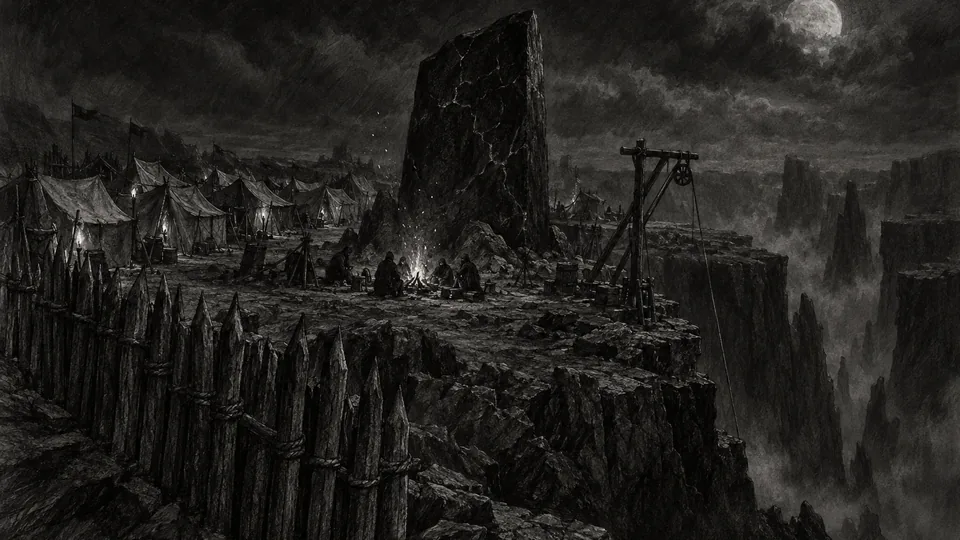
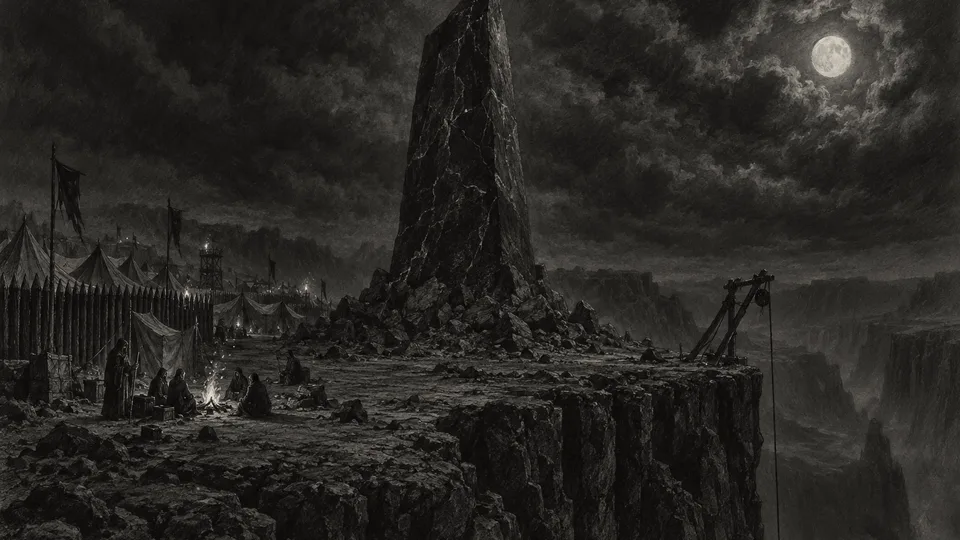
Neue Lagerbilder: Stein steht fest am Boden, Adern-Glühen neu abgeleitet
Claude-Session: https://claude.ai/code/session_011EEWvRSeQeUrKHaWh94RcN

diff --git a/index.html b/index.html
@@ -1402,7 +1402,7 @@ ${glow(180,K.y+6,boss?80:big?60:44,boss?46:big?34:26,big?"#c0352a":c,big?.3:.12)
 ${boss?`<g class="spin" style="transform-origin:180px ${K.y}px"><circle cx="180" cy="${K.y}" r="34" fill="none" stroke="#c0352a" stroke-width=".7" stroke-dasharray="2 6" opacity=".7"/><circle cx="180" cy="${K.y}" r="44" fill="none" stroke="#c0352a" stroke-width=".4" opacity=".35"/></g>`:''}
 <g class="foe-eyes blink ${k==='wing'?'hover':'breathe-e'}">${eye(180-K.gap)}${eye(180+K.gap)}${extra.map(eye).join('')}</g>
 ${particles(PART[ai],10,c,31+ai)}`)}
-const IMG={"nw15":{"p":"dust","fog":1},"nw16":{"p":"dust","fog":1},"nw17":{"p":"snow","fog":1},"nw18":{"p":"dust","fog":1},"nw19":{"g":[[51,22,9,"p","slow"]],"p":"snow","fog":1},"w15":{"p":"dust","fog":1},"w16":{"p":"dust","fog":1},"w17":{"e":[[52.1,34.7,1],[54.7,34.7,1]],"c":"b","p":"snow"},"w18":{"g":[[56.6,27.8,5,"p","slow"]],"p":"dust"},"w19":{"e":[[49.0,18.5,1],[50.9,18.5,1]],"c":"b","es":1,"p":"dust"},"x20":{"g":[[49.5,40,6,"p","slow"]],"p":"dust","fog":1},"g26":{"p":"dust"},"g27":{"p":"dust"},"g28":{"p":"dust"},"g29":{"p":"dust"},"g30":{"e":[[47.8,14.4,1],[49.6,14.4,1]],"c":"b"},"g31":{"p":"dust"},"rb4":{"p":"snow","fog":1},"rw10":{"p":"snow","fog":1},"rt3":{"p":"embers"},"rw7":{"p":"embers"},"rt4":{"p":"snow"},"rw9":{"p":"snow"},"nw11":{"p":"dust","fog":1},"nw12":{"g":[[52.5,27.5,1.6,"v","pulse"]],"p":"dust","fog":1},"nb5":{"g":[[50.5,46,4,"y","slow"]],"p":"dust","fog":1},"nt5":{"p":"dust","fog":1},"x19":{"p":"dust","fog":1},"w14":{"p":"dust","fog":1},"x17":{"g":[[22.8,75,3,"y","fl"]],"p":"dust"},"zb1":{"p":"dust"},"zt2":{"p":"dust","fog":1},"zb2":{"p":"dust","fog":1},"zt4":{"p":"snow"},"zb4":{"p":"snow","fog":1},"zt5":{"p":"dust","fog":1},"w13":{"p":"dust"},"zt3":{"p":"embers"},"x18":{"p":"dust","fog":1},"zw9":{"p":"snow"},"zw11":{"p":"dust","fog":1},"zw12":{"g":[[57.6,68,1.6,"v","pulse"]],"p":"dust"},"zw1":{"p":"dust"},"zw2":{"p":"dust","fog":1},"zw3":{"g":[[77.3,84.5,2.5,"y","fl"]],"p":"dust"},"zw4":{"p":"dust","fog":1},"zw5":{"g":[[57,47,5,"o","slow"]],"p":"dust"},"zw7":{"p":"embers"},"zw8":{"p":"dust","fog":1},"zw10":{"p":"snow","fog":1},"x16":{"e":[[48.2,14.6,.45],[50.5,14.6,.45]],"eo":1,"c":"y","g":[[67.5,30,4,"v","pulse"],[67.5,50,3,"v","slow"]],"p":"dust"},"w6":{"p":"dust"},"w7":{"e":[[49.8,37.8,.6],[52.5,37.8,.6],[48.3,35,.4],[54,35,.4]],"eo":1,"c":"o","g":[[48.2,10.4,10,"o","pulse"]],"p":"embers"},"w8":{"e":[[49.3,4.7,.5],[51,4.6,.5]],"eo":1,"c":"b","p":"dust","fog":1},"w9":{"e":[[56.8,10.5,.4],[58.5,11.4,.4]],"eo":1,"c":"b","p":"snow"},"w10":{"p":"snow","fog":1},"w11":{"p":"dust"},"w12":{"vn":.9,"p":"dust"},"x12":{"p":"dust"},"x13":{"p":"dust"},"x14":{"g":[[36,38,2.5,"y","fl"]],"p":"dust"},"x15":{"g":[[25.7,32.4,2,"o","fl"],[88.7,32.4,2,"o","fl"],[47.9,42.8,8,"b","slow"]],"p":"dust","fog":1},"w3":{"e":[[49.3,1.8,.5],[51.4,1.8,.5]],"eo":1,"c":"b","g":[[38.1,50.9,2.2,"y","fl"]],"p":"dust"},"w1":{"p":"dust"},"w2":{"e":[[42.5,15.7,.55],[45.5,15.7,.55]],"eo":1,"c":"y","g":[[14,49,3,"o","fl"],[93,49,3,"o","fl"],[40.6,59,8,"y","slow"]],"p":"dust"},"w4":{"e":[[49.8,3.6,.45],[51.8,3.6,.45],[44.5,28.5,.4],[46,28.5,.4],[50.8,55.5,.4],[52,55.5,.4],[33,18.7,.4],[35,18.7,.4]],"eo":1,"c":"b","g":[[4,65,1.5,"y","fl"],[95.6,65,1.5,"y","fl"]],"p":"dust","fog":1},"w5":{"e":[[51.5,1.4,.5],[54,1.4,.5]],"eo":1,"c":"y","p":"dust"},"e14":{"g":[[45.9,36.5,3,"y","fl"]],"p":"dust"},"e15":{"vn":.85,"p":"dust"},"e16":{"g":[[81.5,54,6,"o","fl"],[44,48,3.5,"o","fl2"]],"p":"embers"},"e17":{"g":[[48,36,5,"y","slow"]],"p":"dust"},"e18":{"p":"dust"},"l1":{"g":[[41.7,51,5,"o","fl"]],"m":[85.3,5.2,3],"st":[49.5,25],"fog":1},"l2":{"g":[[56,58,5,"o","fl"],[28,53,3,"o","fl"]],"m":[96.4,1.8,3],"st":[50,24.5],"fog":1},"l3":{"g":[[36.5,54,4.5,"o","fl"],[11.4,53,3,"o","fl"],[66.3,16,1.6,"y","fl"]],"m":[88.2,7,3],"st":[45,23],"fog":1},"l5":{"g":[[34.4,73,4.5,"o","fl"],[57.3,68.5,3,"v","fl2"],[60.4,39.5,2,"v","pulse"],[72.6,26,1.6,"y","fl"],[38.3,56.5,1.2,"y","fl"],[49.2,56.5,1.2,"y","fl"],[10.4,71,2,"y","fl"]],"m":[89,2.2,3],"st":[48,20],"fog":1},"l4":{"g":[[34.5,75,4.5,"o","fl"],[39.6,47,1.6,"y","fl"],[54.7,47,1.6,"y","fl"],[77.8,30,1.6,"y","fl"]],"m":[93,4.6,3],"st":[50.3,15],"fog":1},"h2":{"g":[[27.5,16,3.2,"y","fl"]],"p":"dust"},"h3":{"g":[[20,88,10,"o","fl2"],[8,45,8,"o","slow"]],"p":"embers"},"h4":{"g":[[88.9,64.5,3,"y","fl"]],"p":"snow"},"h5":{"g":[[56.5,8,4,"y","fl"]]},"r2":{"g":[[56.6,64,5,"o","fl"]],"p":"dust"},"r3":{"g":[[58.6,74,7,"o","fl2"]],"p":"embers"},"r4":{"g":[[58.6,66,5,"o","fl"]],"p":"snow"},"r5":{"g":[[50.8,51,3.5,"o","fl"]]},"x11":{"p":"dust"},"v6":{"e":[],"c":"o","g":[[11,26,4,"o","fl2"],[28,42,4,"o","fl2"],[90,30,4,"o","fl2"]]},"v1":{"e":[],"c":"y"},"v2":{"e":[],"c":"o","g":[[18,58,6,"o","fl2"],[82,58,6,"o","fl2"]]},"v3":{"e":[],"c":"o","p":"embers"},"v4":{"e":[],"c":"b","p":"snow"},"v5":{"e":[],"c":"v"},"v7":{"e":[],"c":"b"},"v8":{"e":[],"c":"o","p":"embers"},"v9":{"e":[],"c":"b","p":"snow"},"v10":{"e":[],"c":"y","g":[[51,79,3,"y","fl2"]]},"q1":{"e":[],"c":"y","g":[[46,80,6,"y","slow"]],"p":"dust"},"q2":{"e":[],"c":"o","p":"embers"},"q3":{"e":[],"c":"y","g":[[31,93,5,"o","fl2"]]},"x6":{"e":[],"c":"y","g":[[42,73,10,"o","fl2"]]},"x7":{"e":[],"c":"y","p":"dust"},"x8":{"e":[],"c":"v","g":[[58,15,4,"v","pulse"]]},"x9":{"e":[],"c":"y","p":"dust"},"x10":{"e":[],"c":"y"},"x5":{"e":[],"c":"y","g":[[58,12,10,"y","slow"]],"p":"dust"},"e10":{"e":[],"c":"y","g":[[73,50,6,"o","fl2"]]},"e12":{"e":[],"c":"y"},"e9":{"e":[],"c":"y"},"e11":{"e":[],"c":"o","g":[[70,80,9,"o","fl2"]]},"e13":{"e":[],"c":"y"},"g15":{"e":[[49.7,20.1,1.3],[58.0,22.5,1.3]],"c":"y"},"g16":{"e":[[50.0,24.2,1.0],[56.7,24.2,1.0]],"c":"y","g":[[50,4,6,"o","fl2"]]},"g17":{"e":[[45.7,25.4,1.3],[51.9,28.1,1.3]],"c":"o","p":"embers"},"g18":{"e":[],"c":"b","p":"snow"},"g19":{"e":[[38.9,31.8,1.0],[46.3,31.5,1.0]],"c":"b"},"g20":{"e":[[50.4,6.1,0.9],[56.8,6.1,0.9]],"c":"o","p":"embers"},"g21":{"e":[[55.1,25.5,1.0],[60.5,25.3,1.0]],"c":"b","p":"snow"},"g22":{"e":[],"c":"b","p":"snow"},"g23":{"e":[[47.7,2.4,0.6],[49.0,2.4,0.6]],"c":"b"},"g24":{"e":[],"c":"b"},"g25":{"e":[[53.6,13.3,1.1],[58.6,13.1,1.1]],"c":"b"},"e1":{"e":[],"c":"r"},"e2":{"e":[],"c":"b","g":[[50,68,18,"b","slow"]]},"e3":{"e":[],"c":"y"},"e4":{"e":[],"c":"y"},"e5":{"e":[],"c":"o","g":[[22,77,5,"o","fl2"]]},"e6":{"e":[],"c":"b","g":[[44,45,14,"b","slow"]]},"e7":{"e":[],"c":"y"},"e8":{"e":[],"c":"y"},"g1":{"e":[[49.8,12.5,1.4],[43.7,15.3,1.4]],"c":"y"},"g2":{"e":[[47.3,0.5,0.8],[49.3,0.8,0.8]],"c":"b"},"g3":{"e":[[51.3,18.8,0.9],[45.5,20.4,1.1]],"c":"y"},"g4":{"e":[[47.6,1.9,0.8],[49.5,1.8,0.8]],"c":"p"},"g5":{"e":[[58.4,40.5,0.8],[67.7,40.8,0.8]],"c":"y"},"g6":{"e":[[51.0,6.9,1.1],[49.2,7.1,1.1]],"c":"o","g":[[50,45,25,"o","slow"]]},"g7":{"e":[[47.8,4.9,0.6],[49.9,4.9,0.6]],"c":"b"},"g8":{"e":[[45.5,29.7,0.8],[53.9,30.0,0.8]],"c":"r"},"g9":{"e":[[44.1,9.8,1.9],[60.5,9.9,1.9],[50.5,21.4,4.8],[35.9,23.1,1.9],[65.0,30.1,4.8],[39.2,33.0,1.1],[53.0,36.4,1.9],[67.0,40.4,1.4],[60.3,46.1,2.0],[77.7,59.1,4.8],[55.7,72.8,1.4]],"c":"g"},"g10":{"e":[[45.3,47.2,1.4],[52.7,48.1,1.4]],"c":"y"},"g11":{"e":[[46.3,31.6,1.6],[56.4,33.8,1.6]],"c":"y"},"g12":{"e":[[50.0,0.1,1.2],[52.6,1.0,1.2]],"c":"o"},"b1":{"e":[[50.5,10.4,1.2],[46.7,12.2,1.4]],"c":"y"},"b2":{"e":[[52.2,7.0,1.2],[49.4,7.4,1.2]],"c":"b"},"b3":{"e":[[51.5,2.8,1.4],[48.4,3.2,1.2]],"c":"o","g":[[52,40,25,"o","fl2"]],"p":"embers"},"b4":{"e":[[51.9,4.4,.6],[49.9,4.4,.6]],"eo":1,"c":"b","p":"snow"},"b5":{"e":[[52.0,8.5,1.2],[54.2,9.3,1.2],[47.0,9.6,1.2],[48.4,11.2,1.2],[50.0,11.6,1.4],[46.3,13.2,1.2],[54.0,15.1,1.2],[51.1,15.6,1.4],[47.9,17.7,1.2],[51.8,18.0,1.4],[53.9,18.6,1.2],[49.8,21.2,1.2],[46.4,21.4,1.2],[52.3,21.6,1.4],[48.3,22.6,1.2],[53.9,22.9,1.2],[49.0,26.6,1.2],[51.9,28.2,1.2],[53.0,32.1,1.2],[49.4,32.3,1.2],[48.3,35.4,1.2],[51.1,37.1,1.2],[54.8,37.5,1.2],[43.9,38.3,1.2],[48.7,40.7,1.2],[51.1,43.6,1.2],[55.2,44.0,1.2],[45.7,46.5,1.2],[49.6,47.1,1.2],[55.3,48.7,1.2],[51.2,49.4,1.2],[43.0,49.5,1.2],[51.1,53.2,1.4],[56.7,54.2,1.4],[43.9,57.0,1.2],[52.7,59.2,1.2],[48.0,59.5,1.2],[45.9,61.7,1.2],[54.4,65.4,1.2],[44.9,66.0,1.2],[59.1,69.8,1.2],[56.1,71.7,2.2],[39.9,71.8,1.2],[45.1,72.6,1.2],[48.1,72.8,1.2],[50.2,75.0,2.5],[41.6,77.6,1.2],[44.2,78.1,1.2],[46.9,80.5,1.2],[42.7,82.1,1.2],[38.1,82.8,1.1],[52.4,82.9,1.2],[43.9,88.3,1.4],[33.7,89.8,1.2],[55.2,90.7,1.2],[37.4,91.5,1.2],[61.4,95.7,2.5],[57.6,97.2,2.5]],"c":"v"},"t1":{"e":[[53.3,1.0,1.2],[50.4,1.2,1.2]],"c":"y"},"t2":{"e":[[47.0,1.9,1.2],[49.3,2.1,1.2]],"c":"b"},"t3":{"e":[[50.3,12.6,2.0],[43.5,13.6,2.2]],"c":"o","g":[[48,45,22,"o","fl2"]],"p":"embers"},"t4":{"e":[[50,13.9,.7],[48.1,13.9,.7]],"eo":1,"c":"b","p":"snow"},"t5":{"e":[[50.5,4.0,0.5],[49.0,4.0,0.6]],"c":"v"},"k1":{"e":[[53.7,38.0,1.2],[63.8,38.4,1.2]],"c":"y"},"k2":{"e":[[54.8,7.8,1.4],[60.6,10.9,1.2],[48.9,11.4,1.4],[41.7,12.7,1.2],[44.4,15.9,1.2],[41.3,21.9,1.2],[46.3,22.6,1.2],[64.9,24.9,1.2],[26.5,27.2,1.2],[68.5,30.2,1.2],[76.0,32.6,1.2],[28.5,36.8,1.2],[45.5,37.7,1.4],[20.7,39.3,1.2],[68.3,42.6,1.2],[75.4,43.8,1.2],[81.6,49.0,1.2],[15.7,52.6,1.2],[48.5,55.7,1.2],[27.2,56.3,2.0],[84.3,58.4,1.2],[69.3,59.7,1.4],[44.9,67.7,1.2],[13.2,68.6,1.4],[92.5,69.4,1.2],[21.0,72.8,1.4],[75.8,74.5,1.2],[62.6,80.2,1.2],[19.7,82.8,1.4],[42.0,82.7,1.2]],"c":"g"},"k3":{"e":[[49.7,1.5,1.4],[52.2,1.5,1.4]],"c":"b"},"k4":{"e":[],"c":"p"},"k5":{"e":[[50.6,2.8,1.4],[47.9,3.5,1.4]],"c":"o","g":[[30,55,20,"o","fl2"]],"p":"embers"},"k6":{"e":[[48.2,2.8,1.4],[51.2,2.7,1.2]],"c":"o","g":[[49.5,19,8,"o","fl2"],[50,88,40,"o","fl2"]],"p":"embers"},"k7":{"e":[[43.9,36.6,1.4],[51.3,36.7,1.4]],"c":"b","p":"snow"},"k8":{"e":[[49.0,6.7,1.4],[50.7,6.6,1.4]],"c":"b","p":"snow"},"k9":{"e":[[48.9,2.1,1.2],[50.8,3.3,1.2]],"c":"p","ec":"b","es":1},"k10":{"e":[[51.0,0.2,1.2]],"c":"v"},"o1":{"g":[[28.6,56,7,"o","fl"],[43,30,10,"v","pulse"],[69,8,4.5,"p","slow"]],"m":[68.9,7.8,3.3],"fog":1},"o2":{"g":[[84.6,11,6,"o","fl"],[60,80,15,"p","slow"]],"p":"dust"},"o3":{"g":[[25,80,6,"o","fl"],[81,90,6,"o","fl"],[35,64,4,"o","fl"],[66,70,4,"o","fl"],[50,46,4,"o","fl"]],"p":"dust"},"o4":{"g":[[62,80,18,"o","fl2"],[60,50,12,"o","fl2"],[15,46,4,"o","fl"],[88,30,4,"o","fl"]],"p":"embers"},"o5":{"g":[[45,45,30,"b","slow"]],"p":"snow","fog":1},"o6":{"g":[[70,22,4,"r","eye"]],"p":"dust"},"o7":{"g":[[18,12,6,"o","fl"],[79.5,12,6,"o","fl"],[49.8,56,4,"r","eye"]],"p":"dust"},"o8":{"g":[[51.4,66,9,"o","fl"]]},"o9":{"g":[[60.4,16,6,"o","fl"]],"p":"dust"},"x1":{"s":[[30.4,50.5,1.6],[29.6,55,1.1]]},"x2":{"g":[[83,47,12,"o","fl"],[40,76,10,"o","fl"]]},"x3":{"g":[[50,47,10,"v","pulse"]],"p":"dust"},"x4":{"g":[[17.6,44.5,5,"o","fl"]]},"g14":{"e":[[54.2,52,1.6],[66.3,52,1.6]],"c":"o","g":[[45,35,30,"o","fl2"]],"p":"embers"},"g13":{"e":[[59.8,37.2,1.3],[68.6,37.5,1.3]],"c":"y"}};
+const IMG={"nw15":{"p":"dust","fog":1},"nw16":{"p":"dust","fog":1},"nw17":{"p":"snow","fog":1},"nw18":{"p":"dust","fog":1},"nw19":{"g":[[51,22,9,"p","slow"]],"p":"snow","fog":1},"w15":{"p":"dust","fog":1},"w16":{"p":"dust","fog":1},"w17":{"e":[[52.1,34.7,1],[54.7,34.7,1]],"c":"b","p":"snow"},"w18":{"g":[[56.6,27.8,5,"p","slow"]],"p":"dust"},"w19":{"e":[[49.0,18.5,1],[50.9,18.5,1]],"c":"b","es":1,"p":"dust"},"x20":{"g":[[49.5,40,6,"p","slow"]],"p":"dust","fog":1},"g26":{"p":"dust"},"g27":{"p":"dust"},"g28":{"p":"dust"},"g29":{"p":"dust"},"g30":{"e":[[47.8,14.4,1],[49.6,14.4,1]],"c":"b"},"g31":{"p":"dust"},"rb4":{"p":"snow","fog":1},"rw10":{"p":"snow","fog":1},"rt3":{"p":"embers"},"rw7":{"p":"embers"},"rt4":{"p":"snow"},"rw9":{"p":"snow"},"nw11":{"p":"dust","fog":1},"nw12":{"g":[[52.5,27.5,1.6,"v","pulse"]],"p":"dust","fog":1},"nb5":{"g":[[50.5,46,4,"y","slow"]],"p":"dust","fog":1},"nt5":{"p":"dust","fog":1},"x19":{"p":"dust","fog":1},"w14":{"p":"dust","fog":1},"x17":{"g":[[22.8,75,3,"y","fl"]],"p":"dust"},"zb1":{"p":"dust"},"zt2":{"p":"dust","fog":1},"zb2":{"p":"dust","fog":1},"zt4":{"p":"snow"},"zb4":{"p":"snow","fog":1},"zt5":{"p":"dust","fog":1},"w13":{"p":"dust"},"zt3":{"p":"embers"},"x18":{"p":"dust","fog":1},"zw9":{"p":"snow"},"zw11":{"p":"dust","fog":1},"zw12":{"g":[[57.6,68,1.6,"v","pulse"]],"p":"dust"},"zw1":{"p":"dust"},"zw2":{"p":"dust","fog":1},"zw3":{"g":[[77.3,84.5,2.5,"y","fl"]],"p":"dust"},"zw4":{"p":"dust","fog":1},"zw5":{"g":[[57,47,5,"o","slow"]],"p":"dust"},"zw7":{"p":"embers"},"zw8":{"p":"dust","fog":1},"zw10":{"p":"snow","fog":1},"x16":{"e":[[48.2,14.6,.45],[50.5,14.6,.45]],"eo":1,"c":"y","g":[[67.5,30,4,"v","pulse"],[67.5,50,3,"v","slow"]],"p":"dust"},"w6":{"p":"dust"},"w7":{"e":[[49.8,37.8,.6],[52.5,37.8,.6],[48.3,35,.4],[54,35,.4]],"eo":1,"c":"o","g":[[48.2,10.4,10,"o","pulse"]],"p":"embers"},"w8":{"e":[[49.3,4.7,.5],[51,4.6,.5]],"eo":1,"c":"b","p":"dust","fog":1},"w9":{"e":[[56.8,10.5,.4],[58.5,11.4,.4]],"eo":1,"c":"b","p":"snow"},"w10":{"p":"snow","fog":1},"w11":{"p":"dust"},"w12":{"vn":.9,"p":"dust"},"x12":{"p":"dust"},"x13":{"p":"dust"},"x14":{"g":[[36,38,2.5,"y","fl"]],"p":"dust"},"x15":{"g":[[25.7,32.4,2,"o","fl"],[88.7,32.4,2,"o","fl"],[47.9,42.8,8,"b","slow"]],"p":"dust","fog":1},"w3":{"e":[[49.3,1.8,.5],[51.4,1.8,.5]],"eo":1,"c":"b","g":[[38.1,50.9,2.2,"y","fl"]],"p":"dust"},"w1":{"p":"dust"},"w2":{"e":[[42.5,15.7,.55],[45.5,15.7,.55]],"eo":1,"c":"y","g":[[14,49,3,"o","fl"],[93,49,3,"o","fl"],[40.6,59,8,"y","slow"]],"p":"dust"},"w4":{"e":[[49.8,3.6,.45],[51.8,3.6,.45],[44.5,28.5,.4],[46,28.5,.4],[50.8,55.5,.4],[52,55.5,.4],[33,18.7,.4],[35,18.7,.4]],"eo":1,"c":"b","g":[[4,65,1.5,"y","fl"],[95.6,65,1.5,"y","fl"]],"p":"dust","fog":1},"w5":{"e":[[51.5,1.4,.5],[54,1.4,.5]],"eo":1,"c":"y","p":"dust"},"e14":{"g":[[45.9,36.5,3,"y","fl"]],"p":"dust"},"e15":{"vn":.85,"p":"dust"},"e16":{"g":[[81.5,54,6,"o","fl"],[44,48,3.5,"o","fl2"]],"p":"embers"},"e17":{"g":[[48,36,5,"y","slow"]],"p":"dust"},"e18":{"p":"dust"},"l1":{"g":[[27.3,70.6,5,"o","fl"]],"m":[86.6,10.4,3],"st":[48.5,29],"fog":1},"l2":{"g":[[32.6,68.3,5,"o","fl"],[14.6,89,3,"o","fl"]],"m":[85.3,8.1,3],"st":[49.8,29],"fog":1},"l3":{"g":[[27.3,76.4,5,"o","fl"],[69,33.6,1.6,"y","fl"]],"m":[86.6,5.8,3],"st":[48.2,29],"fog":1},"l5":{"g":[[7.2,81.6,4.5,"o","fl"],[62.5,67,3,"v","fl2"],[64.5,52,1.5,"v","pulse"]],"m":[88.9,5.2,3],"st":[48,23],"fog":1},"l4":{"g":[[18.9,79.9,5,"o","fl"],[45.6,61.3,1.4,"y","fl"],[53.4,61.3,1.4,"y","fl"]],"m":[87.9,5.8,3],"st":[49.5,29],"fog":1},"h2":{"g":[[27.5,16,3.2,"y","fl"]],"p":"dust"},"h3":{"g":[[20,88,10,"o","fl2"],[8,45,8,"o","slow"]],"p":"embers"},"h4":{"g":[[88.9,64.5,3,"y","fl"]],"p":"snow"},"h5":{"g":[[56.5,8,4,"y","fl"]]},"r2":{"g":[[56.6,64,5,"o","fl"]],"p":"dust"},"r3":{"g":[[58.6,74,7,"o","fl2"]],"p":"embers"},"r4":{"g":[[58.6,66,5,"o","fl"]],"p":"snow"},"r5":{"g":[[50.8,51,3.5,"o","fl"]]},"x11":{"p":"dust"},"v6":{"e":[],"c":"o","g":[[11,26,4,"o","fl2"],[28,42,4,"o","fl2"],[90,30,4,"o","fl2"]]},"v1":{"e":[],"c":"y"},"v2":{"e":[],"c":"o","g":[[18,58,6,"o","fl2"],[82,58,6,"o","fl2"]]},"v3":{"e":[],"c":"o","p":"embers"},"v4":{"e":[],"c":"b","p":"snow"},"v5":{"e":[],"c":"v"},"v7":{"e":[],"c":"b"},"v8":{"e":[],"c":"o","p":"embers"},"v9":{"e":[],"c":"b","p":"snow"},"v10":{"e":[],"c":"y","g":[[51,79,3,"y","fl2"]]},"q1":{"e":[],"c":"y","g":[[46,80,6,"y","slow"]],"p":"dust"},"q2":{"e":[],"c":"o","p":"embers"},"q3":{"e":[],"c":"y","g":[[31,93,5,"o","fl2"]]},"x6":{"e":[],"c":"y","g":[[42,73,10,"o","fl2"]]},"x7":{"e":[],"c":"y","p":"dust"},"x8":{"e":[],"c":"v","g":[[58,15,4,"v","pulse"]]},"x9":{"e":[],"c":"y","p":"dust"},"x10":{"e":[],"c":"y"},"x5":{"e":[],"c":"y","g":[[58,12,10,"y","slow"]],"p":"dust"},"e10":{"e":[],"c":"y","g":[[73,50,6,"o","fl2"]]},"e12":{"e":[],"c":"y"},"e9":{"e":[],"c":"y"},"e11":{"e":[],"c":"o","g":[[70,80,9,"o","fl2"]]},"e13":{"e":[],"c":"y"},"g15":{"e":[[49.7,20.1,1.3],[58.0,22.5,1.3]],"c":"y"},"g16":{"e":[[50.0,24.2,1.0],[56.7,24.2,1.0]],"c":"y","g":[[50,4,6,"o","fl2"]]},"g17":{"e":[[45.7,25.4,1.3],[51.9,28.1,1.3]],"c":"o","p":"embers"},"g18":{"e":[],"c":"b","p":"snow"},"g19":{"e":[[38.9,31.8,1.0],[46.3,31.5,1.0]],"c":"b"},"g20":{"e":[[50.4,6.1,0.9],[56.8,6.1,0.9]],"c":"o","p":"embers"},"g21":{"e":[[55.1,25.5,1.0],[60.5,25.3,1.0]],"c":"b","p":"snow"},"g22":{"e":[],"c":"b","p":"snow"},"g23":{"e":[[47.7,2.4,0.6],[49.0,2.4,0.6]],"c":"b"},"g24":{"e":[],"c":"b"},"g25":{"e":[[53.6,13.3,1.1],[58.6,13.1,1.1]],"c":"b"},"e1":{"e":[],"c":"r"},"e2":{"e":[],"c":"b","g":[[50,68,18,"b","slow"]]},"e3":{"e":[],"c":"y"},"e4":{"e":[],"c":"y"},"e5":{"e":[],"c":"o","g":[[22,77,5,"o","fl2"]]},"e6":{"e":[],"c":"b","g":[[44,45,14,"b","slow"]]},"e7":{"e":[],"c":"y"},"e8":{"e":[],"c":"y"},"g1":{"e":[[49.8,12.5,1.4],[43.7,15.3,1.4]],"c":"y"},"g2":{"e":[[47.3,0.5,0.8],[49.3,0.8,0.8]],"c":"b"},"g3":{"e":[[51.3,18.8,0.9],[45.5,20.4,1.1]],"c":"y"},"g4":{"e":[[47.6,1.9,0.8],[49.5,1.8,0.8]],"c":"p"},"g5":{"e":[[58.4,40.5,0.8],[67.7,40.8,0.8]],"c":"y"},"g6":{"e":[[51.0,6.9,1.1],[49.2,7.1,1.1]],"c":"o","g":[[50,45,25,"o","slow"]]},"g7":{"e":[[47.8,4.9,0.6],[49.9,4.9,0.6]],"c":"b"},"g8":{"e":[[45.5,29.7,0.8],[53.9,30.0,0.8]],"c":"r"},"g9":{"e":[[44.1,9.8,1.9],[60.5,9.9,1.9],[50.5,21.4,4.8],[35.9,23.1,1.9],[65.0,30.1,4.8],[39.2,33.0,1.1],[53.0,36.4,1.9],[67.0,40.4,1.4],[60.3,46.1,2.0],[77.7,59.1,4.8],[55.7,72.8,1.4]],"c":"g"},"g10":{"e":[[45.3,47.2,1.4],[52.7,48.1,1.4]],"c":"y"},"g11":{"e":[[46.3,31.6,1.6],[56.4,33.8,1.6]],"c":"y"},"g12":{"e":[[50.0,0.1,1.2],[52.6,1.0,1.2]],"c":"o"},"b1":{"e":[[50.5,10.4,1.2],[46.7,12.2,1.4]],"c":"y"},"b2":{"e":[[52.2,7.0,1.2],[49.4,7.4,1.2]],"c":"b"},"b3":{"e":[[51.5,2.8,1.4],[48.4,3.2,1.2]],"c":"o","g":[[52,40,25,"o","fl2"]],"p":"embers"},"b4":{"e":[[51.9,4.4,.6],[49.9,4.4,.6]],"eo":1,"c":"b","p":"snow"},"b5":{"e":[[52.0,8.5,1.2],[54.2,9.3,1.2],[47.0,9.6,1.2],[48.4,11.2,1.2],[50.0,11.6,1.4],[46.3,13.2,1.2],[54.0,15.1,1.2],[51.1,15.6,1.4],[47.9,17.7,1.2],[51.8,18.0,1.4],[53.9,18.6,1.2],[49.8,21.2,1.2],[46.4,21.4,1.2],[52.3,21.6,1.4],[48.3,22.6,1.2],[53.9,22.9,1.2],[49.0,26.6,1.2],[51.9,28.2,1.2],[53.0,32.1,1.2],[49.4,32.3,1.2],[48.3,35.4,1.2],[51.1,37.1,1.2],[54.8,37.5,1.2],[43.9,38.3,1.2],[48.7,40.7,1.2],[51.1,43.6,1.2],[55.2,44.0,1.2],[45.7,46.5,1.2],[49.6,47.1,1.2],[55.3,48.7,1.2],[51.2,49.4,1.2],[43.0,49.5,1.2],[51.1,53.2,1.4],[56.7,54.2,1.4],[43.9,57.0,1.2],[52.7,59.2,1.2],[48.0,59.5,1.2],[45.9,61.7,1.2],[54.4,65.4,1.2],[44.9,66.0,1.2],[59.1,69.8,1.2],[56.1,71.7,2.2],[39.9,71.8,1.2],[45.1,72.6,1.2],[48.1,72.8,1.2],[50.2,75.0,2.5],[41.6,77.6,1.2],[44.2,78.1,1.2],[46.9,80.5,1.2],[42.7,82.1,1.2],[38.1,82.8,1.1],[52.4,82.9,1.2],[43.9,88.3,1.4],[33.7,89.8,1.2],[55.2,90.7,1.2],[37.4,91.5,1.2],[61.4,95.7,2.5],[57.6,97.2,2.5]],"c":"v"},"t1":{"e":[[53.3,1.0,1.2],[50.4,1.2,1.2]],"c":"y"},"t2":{"e":[[47.0,1.9,1.2],[49.3,2.1,1.2]],"c":"b"},"t3":{"e":[[50.3,12.6,2.0],[43.5,13.6,2.2]],"c":"o","g":[[48,45,22,"o","fl2"]],"p":"embers"},"t4":{"e":[[50,13.9,.7],[48.1,13.9,.7]],"eo":1,"c":"b","p":"snow"},"t5":{"e":[[50.5,4.0,0.5],[49.0,4.0,0.6]],"c":"v"},"k1":{"e":[[53.7,38.0,1.2],[63.8,38.4,1.2]],"c":"y"},"k2":{"e":[[54.8,7.8,1.4],[60.6,10.9,1.2],[48.9,11.4,1.4],[41.7,12.7,1.2],[44.4,15.9,1.2],[41.3,21.9,1.2],[46.3,22.6,1.2],[64.9,24.9,1.2],[26.5,27.2,1.2],[68.5,30.2,1.2],[76.0,32.6,1.2],[28.5,36.8,1.2],[45.5,37.7,1.4],[20.7,39.3,1.2],[68.3,42.6,1.2],[75.4,43.8,1.2],[81.6,49.0,1.2],[15.7,52.6,1.2],[48.5,55.7,1.2],[27.2,56.3,2.0],[84.3,58.4,1.2],[69.3,59.7,1.4],[44.9,67.7,1.2],[13.2,68.6,1.4],[92.5,69.4,1.2],[21.0,72.8,1.4],[75.8,74.5,1.2],[62.6,80.2,1.2],[19.7,82.8,1.4],[42.0,82.7,1.2]],"c":"g"},"k3":{"e":[[49.7,1.5,1.4],[52.2,1.5,1.4]],"c":"b"},"k4":{"e":[],"c":"p"},"k5":{"e":[[50.6,2.8,1.4],[47.9,3.5,1.4]],"c":"o","g":[[30,55,20,"o","fl2"]],"p":"embers"},"k6":{"e":[[48.2,2.8,1.4],[51.2,2.7,1.2]],"c":"o","g":[[49.5,19,8,"o","fl2"],[50,88,40,"o","fl2"]],"p":"embers"},"k7":{"e":[[43.9,36.6,1.4],[51.3,36.7,1.4]],"c":"b","p":"snow"},"k8":{"e":[[49.0,6.7,1.4],[50.7,6.6,1.4]],"c":"b","p":"snow"},"k9":{"e":[[48.9,2.1,1.2],[50.8,3.3,1.2]],"c":"p","ec":"b","es":1},"k10":{"e":[[51.0,0.2,1.2]],"c":"v"},"o1":{"g":[[25.4,74,6,"o","fl"],[47.5,29,10,"v","pulse"]],"m":[81,9.3,3],"st":[47.5,29],"fog":1},"o2":{"g":[[84.6,11,6,"o","fl"],[60,80,15,"p","slow"]],"p":"dust"},"o3":{"g":[[25,80,6,"o","fl"],[81,90,6,"o","fl"],[35,64,4,"o","fl"],[66,70,4,"o","fl"],[50,46,4,"o","fl"]],"p":"dust"},"o4":{"g":[[62,80,18,"o","fl2"],[60,50,12,"o","fl2"],[15,46,4,"o","fl"],[88,30,4,"o","fl"]],"p":"embers"},"o5":{"g":[[45,45,30,"b","slow"]],"p":"snow","fog":1},"o6":{"g":[[70,22,4,"r","eye"]],"p":"dust"},"o7":{"g":[[18,12,6,"o","fl"],[79.5,12,6,"o","fl"],[49.8,56,4,"r","eye"]],"p":"dust"},"o8":{"g":[[51.4,66,9,"o","fl"]]},"o9":{"g":[[60.4,16,6,"o","fl"]],"p":"dust"},"x1":{"s":[[30.4,50.5,1.6],[29.6,55,1.1]]},"x2":{"g":[[83,47,12,"o","fl"],[40,76,10,"o","fl"]]},"x3":{"g":[[50,47,10,"v","pulse"]],"p":"dust"},"x4":{"g":[[17.6,44.5,5,"o","fl"]]},"g14":{"e":[[54.2,52,1.6],[66.3,52,1.6]],"c":"o","g":[[45,35,30,"o","fl2"]],"p":"embers"},"g13":{"e":[[59.8,37.2,1.3],[68.6,37.5,1.3]],"c":"y"}};
 const FOE={Namensfresser:'g26',Leerenkoloss:'g27','Flüsterschwarm':'g28',Rissweberin:'g29','Gebundener Ankerträger':'g30',Sternloser:'g31',Goblin:'g1',Kobold:'g15',Skelettkrieger:'g2',Grabwächter:'g2',Abgrundritter:'g2',Ghul:'g3','Erwachter Toter':'g3',Aschenkultist:'g4',Eishexe:'k8',Riesenratte:'g13',Knochenhund:'g19',Höllenhund:'g20',Eiswolf:'g21',Salamander:'g14',Lavagolem:'g6',Frostriese:'g18',Banshee:'k4',Reifgeist:'g22',Leerenwandler:'g7',Seelenfresser:'g25',Gesichtsloser:'g24',Schatten:'g23','Rachsüchtiger Geist':'g7','Höhlenfledermaus':'g8',Feuerimp:'g17',Schleim:'g9',Gletscherwyrm:'g10',Sternenfresser:'g10',Mimic:'g11',
 'Goblinhäuptling Krag':'b1','Der Knochenkönig':'b2','Ignaroth, Herr der Glut':'b3','Hrimfang der Ewige':'b4','Das Namenlose':'b5','Brakk, der Grubenoger':'t1','Morvane, die Grabhüterin':'t2','Die Aschenbrut':'t3','Skadi, die Eiswächterin':'t4','Der Leerenhüter':'t5'};try{deepImgReg()}catch(e){}
 const BKEY={grimmzahn:'k1',mutter:'k2',aldric:'k3',weinende:'k4',ossa:'k5',schlacke:'k6',weissfell:'k7',ylva:'k8',zaehlende:'k9',kaelen:'k10'};

diff --git a/sw.js b/sw.js
@@ -1,4 +1,4 @@
-const V='riss-1795820040';
+const V='riss-1795820424';
 const CORE=['./','index.html','manifest.webmanifest','icons/icon-192.png','icons/icon-512.png','img/b1.webp','img/b2.webp','img/b3.webp','img/b4.webp','img/b5.webp','img/e1.webp','img/e10.webp','img/e11.webp','img/e12.webp','img/e13.webp','img/e14.webp','img/e15.webp','img/e15v.webp','img/e16.webp','img/e17.webp','img/e18.webp','img/e2.webp','img/e3.webp','img/e4.webp','img/e5.webp','img/e6.webp','img/e7.webp','img/e8.webp','img/e9.webp','img/g1.webp','img/g10.webp','img/g11.webp','img/g12.webp','img/g13.webp','img/g14.webp','img/g15.webp','img/g16.webp','img/g17.webp','img/g18.webp','img/g19.webp','img/g2.webp','img/g20.webp','img/g21.webp','img/g22.webp','img/g23.webp','img/g24.webp','img/g25.webp','img/g26.webp','img/g27.webp','img/g28.webp','img/g29.webp','img/g3.webp','img/g30.webp','img/g31.webp','img/g4.webp','img/g5.webp','img/g6.webp','img/g7.webp','img/g8.webp','img/g9.webp','img/h2.webp','img/h3.webp','img/h4.webp','img/h5.webp','img/k1.webp','img/k10.webp','img/k2.webp','img/k3.webp','img/k4.webp','img/k5.webp','img/k6.webp','img/k7.webp','img/k8.webp','img/k9.webp','img/l1.webp','img/l1v.webp','img/l2.webp','img/l2v.webp','img/l3.webp','img/l3v.webp','img/l4.webp','img/l4v.webp','img/l5.webp','img/l5v.webp','img/nb5.webp','img/nt5.webp','img/nw11.webp','img/nw12.webp','img/nw15.webp','img/nw16.webp','img/nw17.webp','img/nw18.webp','img/nw19.webp','img/o1.webp','img/o2.webp','img/o3.webp','img/o4.webp','img/o5.webp','img/o6.webp','img/o7.webp','img/o8.webp','img/o9.webp','img/q1.webp','img/q2.webp','img/q3.webp','img/r2.webp','img/r3.webp','img/r4.webp','img/r5.webp','img/rb4.webp','img/rt3.webp','img/rt4.webp','img/rw10.webp','img/rw7.webp','img/rw9.webp','img/t1.webp','img/t2.webp','img/t3.webp','img/t4.webp','img/t5.webp','img/v1.webp','img/v10.webp','img/v2.webp','img/v3.webp','img/v4.webp','img/v5.webp','img/v6.webp','img/v7.webp','img/v8.webp','img/v9.webp','img/w1.webp','img/w10.webp','img/w11.webp','img/w12.webp','img/w12v.webp','img/w13.webp','img/w14.webp','img/w15.webp','img/w16.webp','img/w17.webp','img/w18.webp','img/w19.webp','img/w2.webp','img/w3.webp','img/w4.webp','img/w5.webp','img/w6.webp','img/w7.webp','img/w8.webp','img/w9.webp','img/x1.webp','img/x10.webp','img/x11.webp','img/x12.webp','img/x13.webp','img/x14.webp','img/x15.webp','img/x16.webp','img/x17.webp','img/x18.webp','img/x19.webp','img/x2.webp','img/x20.webp','img/x3.webp','img/x4.webp','img/x5.webp','img/x6.webp','img/x7.webp','img/x8.webp','img/x9.webp','img/zb1.webp','img/zb2.webp','img/zb4.webp','img/zt2.webp','img/zt3.webp','img/zt4.webp','img/zt5.webp','img/zw1.webp','img/zw10.webp','img/zw11.webp','img/zw12.webp','img/zw2.webp','img/zw3.webp','img/zw4.webp','img/zw5.webp','img/zw7.webp','img/zw8.webp','img/zw9.webp','mus/fight.mp3','mus/camp.mp3','mus/fire.mp3'];
 self.addEventListener('install',e=>{e.waitUntil(caches.open(V).then(c=>c.addAll(CORE)).then(()=>self.skipWaiting()))});
 self.addEventListener('activate',e=>{e.waitUntil(caches.keys().then(ks=>Promise.all(ks.filter(k=>k!==V).map(k=>caches.delete(k)))).then(()=>self.clients.claim()))});
